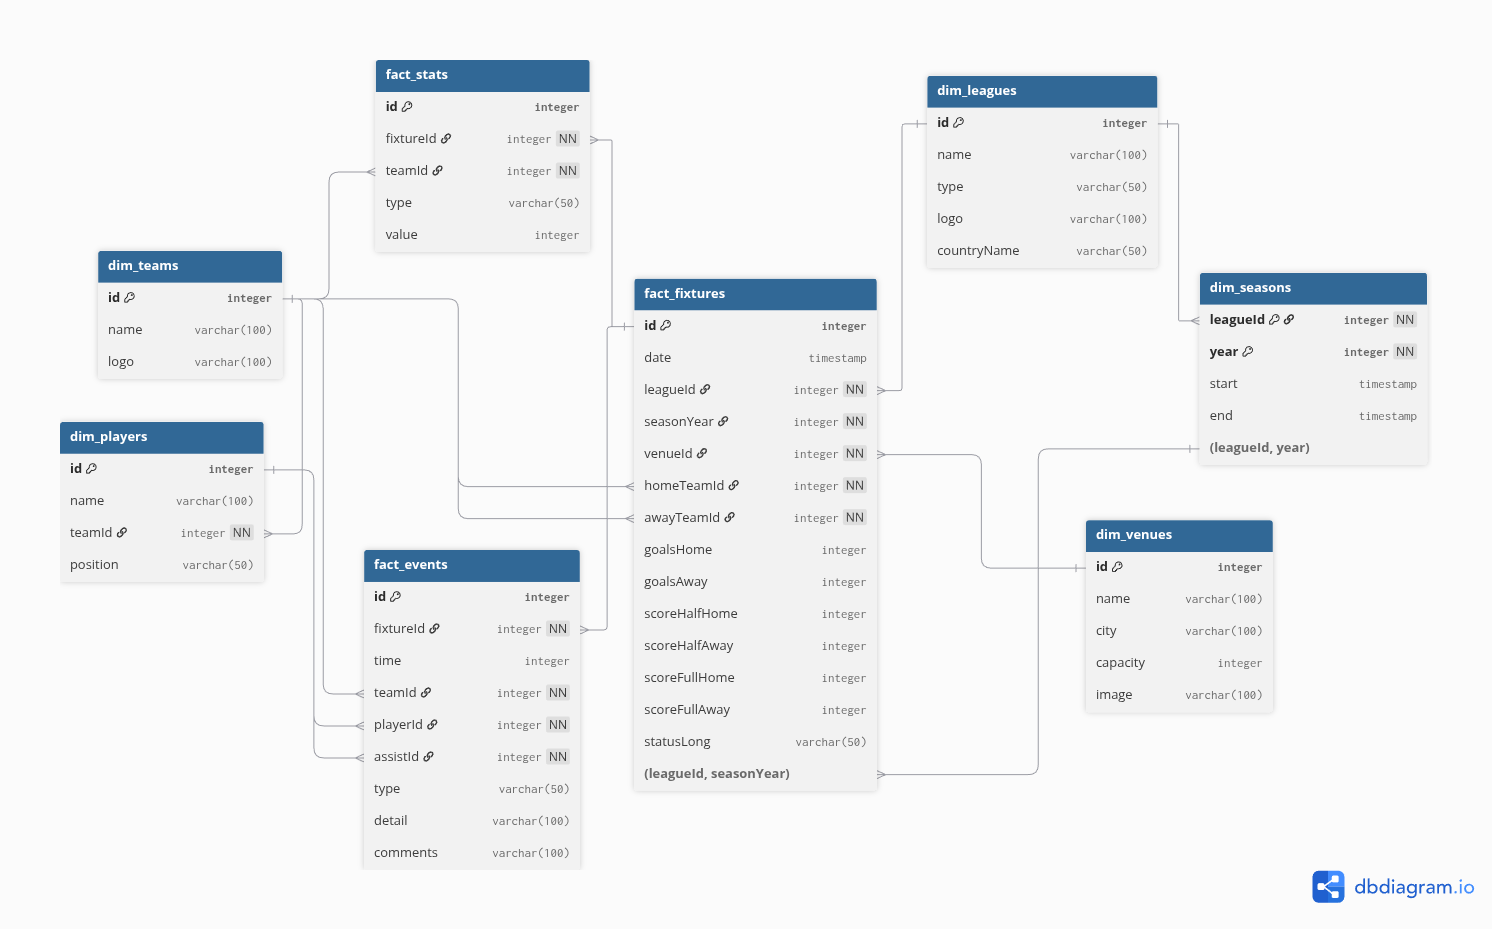
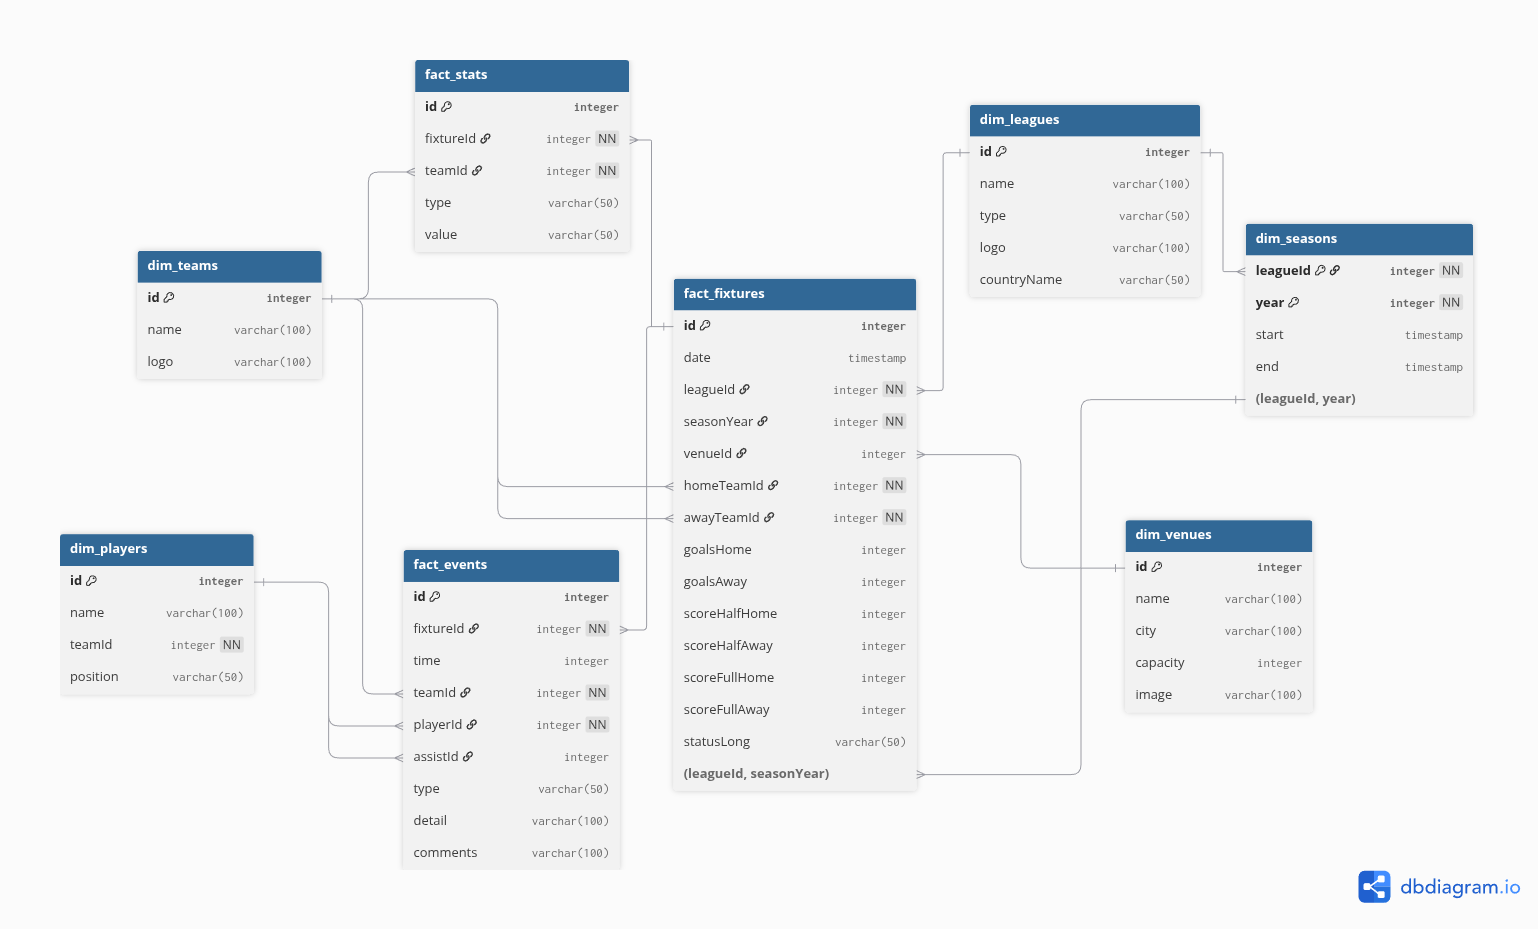
Atualizações de códigos e arquivos

diff --git a/src/transform.py b/src/transform.py
@@ -1,4 +1,5 @@
 import time
+import requests
 import pandas as pd
 from api import obter_dados
 from database import get_existing_ids
@@ -122,6 +123,11 @@ def criar_players(teams):
                 f"/squads?team={team}"
             )
             data.extend(response)
+        except requests.exceptions.HTTPError as erro:
+            if erro.response is not None and erro.response.status_code == 429:
+                print("Limite de requisições da API atingido (429). Interrompendo consultas de jogadores.")
+                break
+            print(f"Falha ao consultar jogadores do time {team}: {erro}")
         except Exception as erro:
             print(f"Falha ao consultar jogadores do time {team}: {erro}")
 
@@ -186,6 +192,11 @@ def criar_stats(fixtures):
                 f"/fixtures/{fixture}/statistics"
             )
             data.extend(response)
+        except requests.exceptions.HTTPError as erro:
+            if erro.response is not None and erro.response.status_code == 429:
+                print("Limite de requisições da API atingido (429). Interrompendo consultas de estatísticas.")
+                break
+            print(f"Falha ao consultar estatísticas da fixture {fixture}: {erro}")
         except Exception as erro:
             print(f"Falha ao consultar estatísticas da fixture {fixture}: {erro}")
 
@@ -245,6 +256,11 @@ def criar_events(fixtures):
                 f"/fixtures/{fixture}/events"
             )
             data.extend(response)
+        except requests.exceptions.HTTPError as erro:
+            if erro.response is not None and erro.response.status_code == 429:
+                print("Limite de requisições da API atingido (429). Interrompendo consultas de eventos.")
+                break
+            print(f"Falha ao consultar eventos da fixture {fixture}: {erro}")
         except Exception as erro:
             print(f"Falha ao consultar eventos da fixture {fixture}: {erro}")
 
